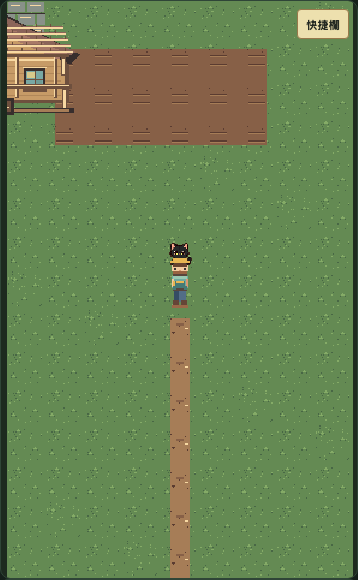
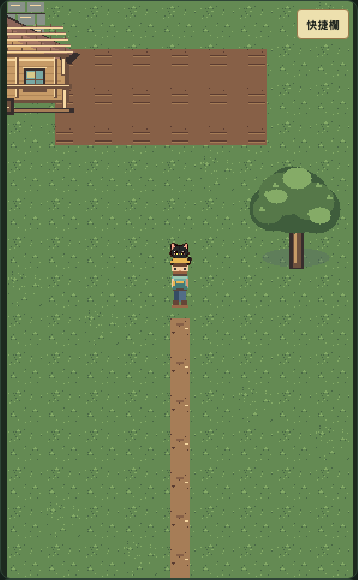
feat: compose farm front candidate scene

Changed region(s): [[0.676, 0.2793, 0.9525, 0.4655]]

diff --git a/tests/e2e/world-v2-candidate-scene.spec.ts b/tests/e2e/world-v2-candidate-scene.spec.ts
@@ -4,6 +4,7 @@ const nodeProcess = (globalThis as typeof globalThis & {
   process?: { env?: Record<string, string | undefined> };
 }).process;
 const saveEvidence = nodeProcess?.env?.SAVE_WORLD_V2_SCENE_EVIDENCE === '1';
+const saveFarmEvidence = nodeProcess?.env?.SAVE_WORLD_V2_FARM_EVIDENCE === '1';
 
 type CandidateDebug = {
   mapId(): string;
@@ -33,7 +34,7 @@ async function walk(page: Page, key: string, steps: number): Promise<void> {
 }
 
 async function capture(page: Page, name: string): Promise<void> {
-  if (!saveEvidence) return;
+  if (!saveEvidence && (name.startsWith('house-') || !saveFarmEvidence)) return;
   const root = name.startsWith('house-')
     ? 'docs/art/candidates/pixel-movement/df-v2-030-house-interior/screenshots'
     : 'docs/art/candidates/pixel-movement/gate1-world-v2-scene/screenshots';
@@ -50,7 +51,7 @@ test('DEV world-v2 farm and house scene candidate stays opt-in and renders both 
   page.on('pageerror', (error) => errors.push(error.message));
   page.on('requestfailed', (request) => failedRequests.push(`${request.method()} ${request.url()}`));
 
-  await page.setViewportSize({ width: 2560, height: 1920 });
+  await page.setViewportSize({ width: 1280, height: 720 });
   await page.goto('/?renderProfile=pixel32&gate1Runtime=pixel32-map-animation');
   await expect(page.locator('#game canvas')).toBeVisible();
   await expect.poll(() => page.evaluate(() => (window as unknown as { __dewhollow?: CandidateDebug }).__dewhollow?.worldV2SceneCandidate().enabled ?? true)).toBe(false);
@@ -71,9 +72,18 @@ test('DEV world-v2 farm and house scene candidate stays opt-in and renders both 
     'gate1-world-v2-farm-atlas:house-exterior',
     'gate1-world-v2-farm-atlas:house-front',
     'gate1-world-v2-farm-atlas:tree-canopy',
+    'gate1-world-v2-farm-atlas:shipping-crate',
     'gate1-world-v2-farm-atlas:stone-wall',
     'gate1-world-v2-farm-atlas:fence-horizontal',
     'gate1-world-v2-farm-atlas:fence-vertical',
+  ]));
+  const initialFarmScene = await page.evaluate(() => (window as unknown as { __dewhollow?: CandidateDebug }).__dewhollow!.worldV2SceneCandidate());
+  expect(initialFarmScene.layers.some(({ frame }) => frame.startsWith('path-mask-'))).toBe(true);
+  expect(initialFarmScene.layers.some(({ frame }) => frame.startsWith('field-mask-'))).toBe(true);
+  expect(initialFarmScene.placements).toEqual(expect.arrayContaining([
+    expect.objectContaining({ frame: 'house-exterior', x: 160, y: 320 }),
+    expect.objectContaining({ frame: 'house-front', x: 160, y: 320 }),
+    expect.objectContaining({ frame: 'tree-canopy', x: 672, y: 576 }),
   ]));
   const initialStateWithoutLocation = await page.evaluate(() => {
     const state = structuredClone((window as unknown as { __dewhollow?: CandidateDebug }).__dewhollow!.gameState());

diff --git a/src/presentation/scenes/MapScene.ts b/src/presentation/scenes/MapScene.ts
@@ -111,6 +111,7 @@ import {
   WORLD_V2_FARM_MANIFEST_KEY,
   WORLD_V2_HOUSE_ATLAS_KEY,
   WORLD_V2_HOUSE_MANIFEST_KEY,
+  worldV2FarmSceneCandidatePlacements,
   worldV2SceneCandidateFrameFor,
 } from '../world-v2-scene-candidate';
 import { activeDirection, cancelUnifiedInput, createUnifiedInputState, holdDirection, releaseDirection, type UnifiedInputState } from '../unified-input-state/unified-input-state';
@@ -2019,9 +2020,16 @@ export class MapScene extends Phaser.Scene {
   private drawWorldV2CandidateOverlays(mapId: string): void {
     if (!this.worldV2SceneCandidate) return;
     if (mapId === 'farm') {
-      this.addWorldV2CandidateSprite(WORLD_V2_FARM_ATLAS_KEY, WORLD_V2_FARM_MANIFEST_KEY, 'house-exterior', 2, 4, 'back');
-      this.addWorldV2CandidateSprite(WORLD_V2_FARM_ATLAS_KEY, WORLD_V2_FARM_MANIFEST_KEY, 'house-front', 2, 4, 'front');
-      this.addWorldV2CandidateSprite(WORLD_V2_FARM_ATLAS_KEY, WORLD_V2_FARM_MANIFEST_KEY, 'tree-canopy', 33, 21, 'front');
+      for (const placement of worldV2FarmSceneCandidatePlacements()) {
+        this.addWorldV2CandidateSprite(
+          WORLD_V2_FARM_ATLAS_KEY,
+          WORLD_V2_FARM_MANIFEST_KEY,
+          placement.frame,
+          placement.anchorTile.x,
+          placement.anchorTile.y,
+          placement.layer,
+        );
+      }
     } else if (mapId === 'house' || mapId === 'house-wing' || mapId === 'house-full') {
       const manifest = this.cache.json.get(WORLD_V2_HOUSE_MANIFEST_KEY) as WorldV2CandidateManifestMetadata | undefined;
       const frames = manifest?.frames;

diff --git a/src/presentation/world-v2-scene-candidate.spec.ts b/src/presentation/world-v2-scene-candidate.spec.ts
@@ -2,6 +2,7 @@ import { describe, expect, it } from 'vitest';
 import type { MapDef, TileKind } from '../domain/content';
 import {
   worldV2CandidateFramesFromManifest,
+  worldV2FarmSceneCandidatePlacements,
   worldV2SceneCandidateFrameFor,
   worldV2SceneCandidateRequested,
 } from './world-v2-scene-candidate';
@@ -49,6 +50,14 @@ const farmBoundary: MapDef = {
 };
 
 describe('world-v2 scene candidate gate', () => {
+  it('keeps farmhouse, front lip, and tree canopy clustered around the existing front-yard layout', () => {
+    expect(worldV2FarmSceneCandidatePlacements()).toEqual([
+      { frame: 'house-exterior', anchorTile: { x: 2, y: 4 }, layer: 'back' },
+      { frame: 'house-front', anchorTile: { x: 2, y: 4 }, layer: 'front' },
+      { frame: 'tree-canopy', anchorTile: { x: 10, y: 8 }, layer: 'front' },
+    ]);
+  });
+
   it('requires DEV, the Pixel32 runtime, and the exact scene visual opt-in', () => {
     expect(worldV2SceneCandidateRequested(new URLSearchParams('gate1SceneVisual=world-v2-cozy'), true, 'pixel32', true)).toBe(true);
     expect(worldV2SceneCandidateRequested(new URLSearchParams('gate1SceneVisual=world-v2-cozy'), false, 'pixel32', true)).toBe(false);

diff --git a/src/presentation/world-v2-scene-candidate.ts b/src/presentation/world-v2-scene-candidate.ts
@@ -25,6 +25,18 @@ export const WORLD_V2_HOUSE_REQUIRED_FRAMES = [
 
 const CANDIDATE_HOUSE_MAP_IDS = new Set(['house', 'house-wing', 'house-full']);
 
+export function worldV2FarmSceneCandidatePlacements(): readonly {
+  frame: string;
+  anchorTile: { x: number; y: number };
+  layer: 'back' | 'front';
+}[] {
+  return [
+    { frame: 'house-exterior', anchorTile: { x: 2, y: 4 }, layer: 'back' },
+    { frame: 'house-front', anchorTile: { x: 2, y: 4 }, layer: 'front' },
+    { frame: 'tree-canopy', anchorTile: { x: 10, y: 8 }, layer: 'front' },
+  ];
+}
+
 /** Validate the fixed 32px/2x candidate contract and require every requested frame to stay unapproved. */
 export function worldV2CandidateFramesFromManifest(
   value: unknown,

diff --git a/docs/art/candidates/pixel-movement/gate1-world-v2-scene/README.zh-TW.md b/docs/art/candidates/pixel-movement/gate1-world-v2-scene/README.zh-TW.md
@@ -9,7 +9,7 @@
 | 農場 | [farm-desktop.png](screenshots/farm-desktop.png) | [farm-mobile.png](screenshots/farm-mobile.png) |
 | 小屋 | [house-desktop.png](screenshots/house-desktop.png) | [house-mobile.png](screenshots/house-mobile.png) |
 
-截圖由本機 Chromium 實際載入 Phaser MapScene 擷取。農場截圖呈現目前鏡頭 viewport，不是 40×30 地圖的一張全景；目前場景接入涵蓋地面、田地／路徑 mask、出貨箱、石牆、溫室欄杆、農舍、樹冠與小屋木牆／地板／既有家具映射。手機畫面補充狹窄 viewport 的取景。細節與 hash 見 [`evidence.json`](evidence.json) 及 [`VISUAL_AUDIT.yaml`](VISUAL_AUDIT.yaml)。
+截圖由本機 Chromium 實際載入 Phaser MapScene 擷取。P3-032 將 farm 候選樹冠放在 `(10,8)`，靠近既有農舍、出貨箱、田區和道路，且在 390×844 手機及 1280×720 桌機兩張視野都能看見。農場截圖呈現目前鏡頭 viewport，不是 40×30 地圖的一張全景；目前場景接入涵蓋地面、田地／路徑 mask、出貨箱、石牆、溫室欄杆、農舍、樹冠與小屋木牆／地板／既有家具映射。此呈現保留現有 MapDef 的一格道路與可耕田座標，不以裝飾圖層模擬額外可走格。細節與 hash 見 [`evidence.json`](evidence.json) 及 [`VISUAL_AUDIT.yaml`](VISUAL_AUDIT.yaml)。
 
 ## DEV 預覽
 
@@ -27,10 +27,10 @@
 - [`house/`](house/)：原創 32px Pixel32 小屋候選 atlas／manifest／確定性產生器。
 - 兩組 manifest 與每個 frame 都明確保持 `approved: false`。概念參考圖 [`concept-reference.png`](concept-reference.png) 只供構圖參考，沒有被打包進 atlas。
 - 執行 `npm run assets:gate1:world-v2-scene:check` 驗證 hash、frame bounds 與候選狀態；`npm run check` 也會執行此檢查。
-- 執行 `npx playwright test tests/e2e/world-v2-candidate-scene.spec.ts --workers=1` 驗證 DEV 整合。以 `SAVE_WORLD_V2_SCENE_EVIDENCE=1` 重跑可更新截圖。
+- 執行 `npm run test:e2e -- tests/e2e/world-v2-candidate-scene.spec.ts --workers=1` 驗證 DEV 整合。以 `SAVE_WORLD_V2_FARM_EVIDENCE=1` 重跑可只更新 farm 截圖，不改寫 P3-031 的 house 證據。
 
 ## 審查限制
 
-- 人工視覺 Gate 尚未通過；請先審查農場與小屋兩個桌機場景，再決定是否進 P3。此選擇不代表候選素材可正式整合。
+- P2 候選方向已由使用者接受並進入 P3；人工素材核准 Gate 仍待完成。候選素材尚不可正式整合。
 - farm 截圖是目前遊戲鏡頭 viewport；整張 farm 地圖的所有邊界和地標沒有同時顯示在單張圖中。
 - 大型家具 layer、被遮擋角色、寵物跟隨、季節覆蓋與完整 22×20 小屋屬後續工作；這裡只提供受控的場景候選切片。
